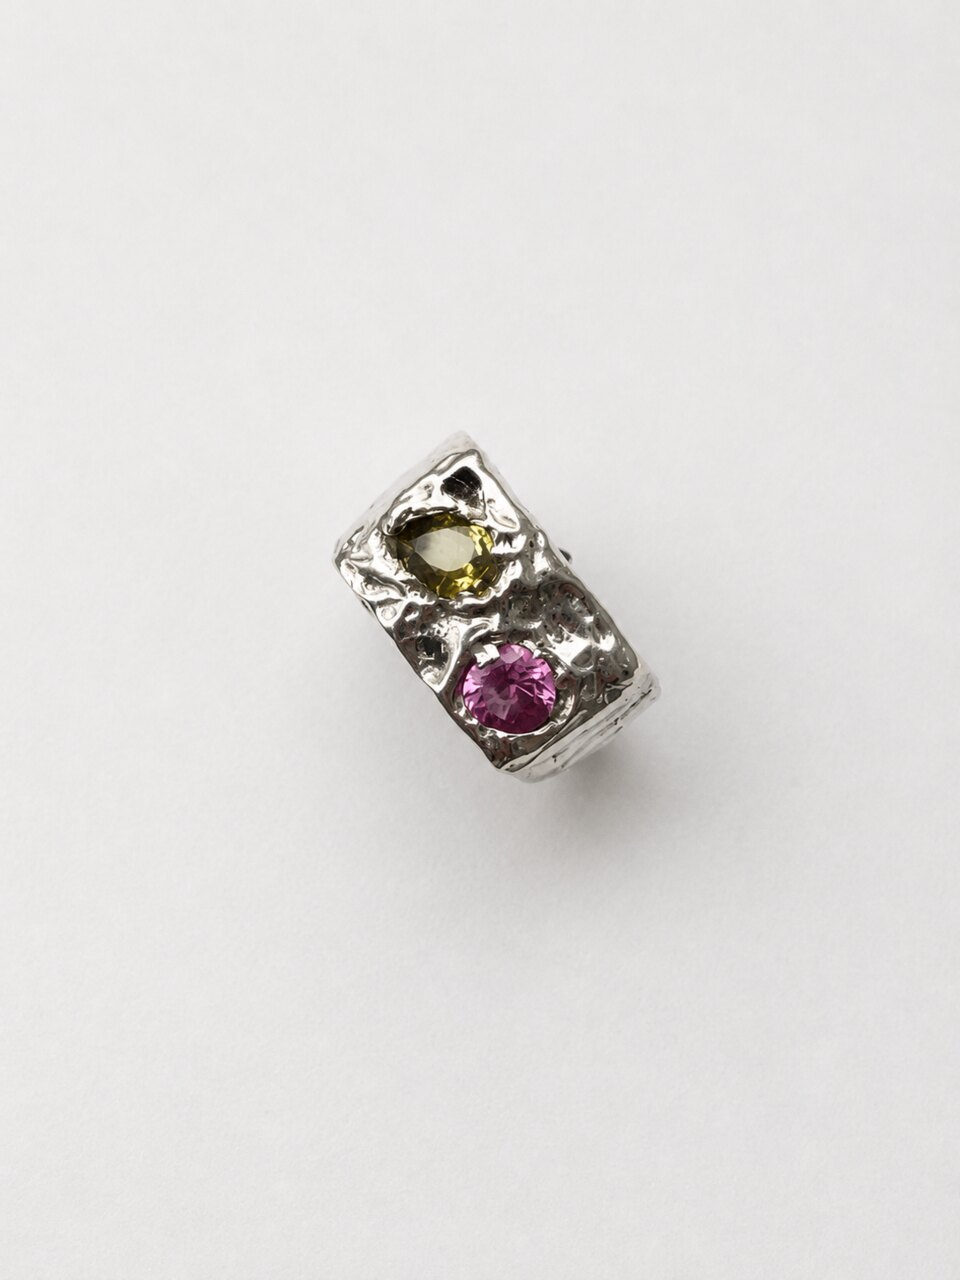
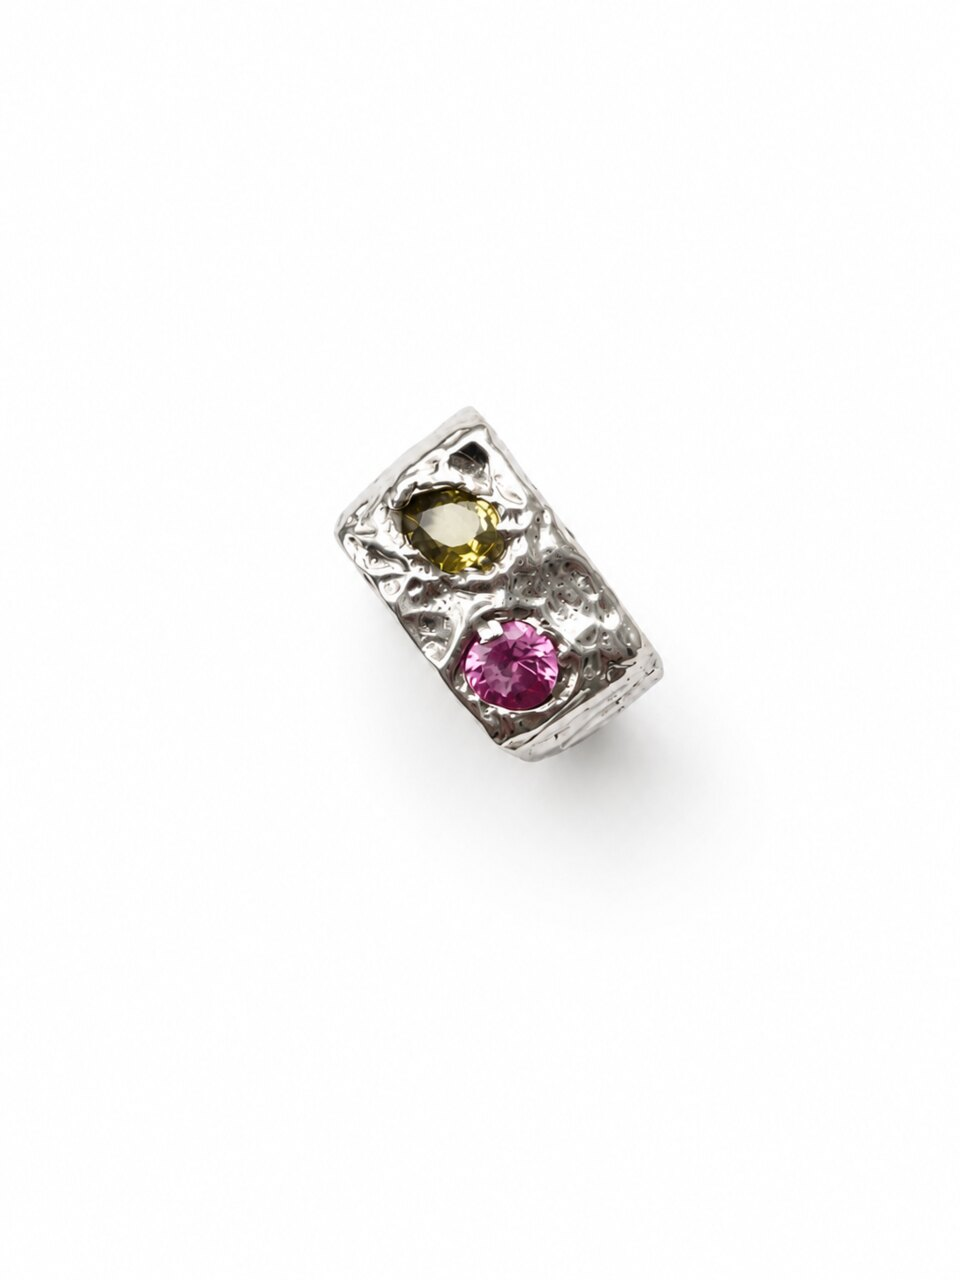
Nowe zdjęcia pierścionków, jedno zdjęcie hero na desktopie, nowe zdjęcie na stronie o mnie
- zdj/customs/: podmienione 5 zdjęć na nowe wersje, które klientka
  wstawiła w stuff/pierscionki/ — Odette (hero), Courtney (hero + alt),
  Genevieve (alt), Delia (hero). Same nazwy plików, więc żadna strona
  ani products.js nie potrzebowały zmian poza samymi zdjęciami
- .hero-band: na desktopie/laptopie pokazywało się dotąd drugie zdjęcie
  obok pierwszego — teraz zawsze tylko jedno (to wstawione poprzednio),
  na każdej szerokości ekranu; drugie zdjęcie usunięte z HTML całkiem,
  żeby nie ładowało się bez potrzeby
- o-nas.html: nowe zdjęcie Laury (z pliku wrzuconego do zdj/) zamiast
  poprzedniego w sekcji "modern princess"

diff --git a/styles.css b/styles.css
@@ -167,8 +167,9 @@ h1,h2,h3,h4{ margin:0; font-weight:700; color:var(--ink); line-height:1.2; }
 /* =========================================================
    Baner pełnoekranowy (hero)
    ========================================================= */
-.hero-band{ position:relative; display:grid; grid-template-columns:1fr 1fr; height:min(62vh,560px); }
+.hero-band{ position:relative; display:grid; grid-template-columns:1fr; height:min(62vh,560px); }
 .hero-band figure{ margin:0; overflow:hidden; background:var(--tile); }
+.hero-band figure:nth-child(2){ display:none; } /* one photo only, on every screen size */
 .hero-band img{ width:100%; height:100%; object-fit:cover; }
 .hero-band__overlay{
   position:absolute; left:var(--edge); bottom:2.6rem; z-index:2; color:#fff; max-width:min(46ch,54%);
@@ -674,8 +675,7 @@ h1,h2,h3,h4{ margin:0; font-weight:700; color:var(--ink); line-height:1.2; }
 @media (max-width:900px){
   .split, .contact-grid{ grid-template-columns:1fr; gap:2.4rem; }
   .stuff{ grid-template-columns:1fr; gap:1.8rem; }
-  .hero-band{ grid-template-columns:1fr; height:min(58vh,460px); }
-  .hero-band figure:nth-child(2){ display:none; }
+  .hero-band{ height:min(58vh,460px); }
   .hero-band__overlay{ max-width:none; right:var(--edge); }
   .footer-top{ grid-template-columns:1fr; gap:2.4rem; }
   .product-facts{ grid-template-columns:1fr 1fr; }

diff --git a/o-nas.html b/o-nas.html
@@ -60,7 +60,7 @@
 
     <section class="section section--paper2">
       <div class="wrap section__inner split">
-          <figure class="ph"><img src="zdj/web/IMG_2860-640.jpg" srcset="zdj/web/IMG_2860-400.jpg 400w, zdj/web/IMG_2860-640.jpg 640w, zdj/web/IMG_2860-1280.jpg 1280w" sizes="(max-width:960px) 92vw, 46vw" alt="Laura, founder of the ARTarual studio" loading="lazy" decoding="async"></figure>
+          <figure class="ph"><img src="zdj/web/about-laura-640.jpg" srcset="zdj/web/about-laura-400.jpg 400w, zdj/web/about-laura-640.jpg 640w, zdj/web/about-laura-1280.jpg 1280w" sizes="(max-width:960px) 92vw, 46vw" alt="Laura, founder of the ARTarual studio" loading="lazy" decoding="async"></figure>
         <div>
           <div class="sec-head"><h2 data-i18n="onas.princess.heading">modern princess</h2></div>
           <p data-i18n="onas.princess.p1">To me, a princess is a woman with her own plans &mdash; who works, tries to keep everyday life together, sometimes has no idea what she is doing, and keeps going anyway.</p>

diff --git a/index.html b/index.html
@@ -55,7 +55,6 @@
     <!-- opening banner: two full-bleed photos with the text on top -->
     <section class="hero-band">
       <figure><img src="zdj/web/hero-team-1280.jpg" srcset="zdj/web/hero-team-400.jpg 400w, zdj/web/hero-team-640.jpg 640w, zdj/web/hero-team-1280.jpg 1280w" sizes="(max-width:900px) 100vw, 50vw" alt="Two modern princesses at work, rings on" fetchpriority="high"></figure>
-      <figure><img src="zdj/web/IMG_2841-1280.jpg" alt="A wide, hammered silver ring with a stone" fetchpriority="high"></figure>
       <div class="hero-band__overlay">
         <h1 class="hero-band__title" data-i18n="home.hero.title">made by hand</h1>
         <p class="hero-band__sub" data-i18n="home.hero.sub">Rings and signets from a one-person studio in Warsaw. You pick the zircon colour and the size.</p>
